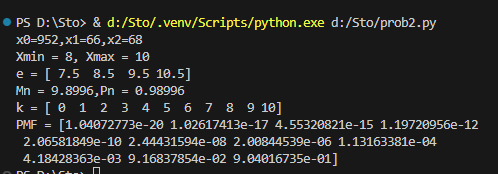
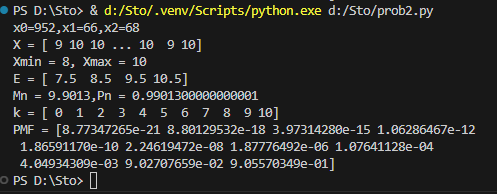
new

Changed region(s): [[0.0, 0.2874, 0.9658, 1.0], [0.0, 0.0287, 0.8753, 0.1724], [0.0302, 0.2011, 0.4225, 0.2874]]

diff --git a/prob2.py b/prob2.py
@@ -31,6 +31,7 @@ minX = X.min()
 maxX = X.max()
 print("Xmin = {}, Xmax = {}".format(minX,maxX))
 e = np.arange(minX - 0.5, maxX + 1)
+print("E = {}".format(e))
 np.histogram(X, bins=e)
 plt.hist(X, bins=e)
 plt.title("Histogram with bins = e")
@@ -38,7 +39,6 @@ plt.show()
 
 Mn = np.mean(X)
 pn = Mn / N
-print("e = {}".format(e))
 print("Mn = {},Pn = {}".format(Mn,pn))
 
 # 1.3 รหัสสำหรับ candidate PMF
